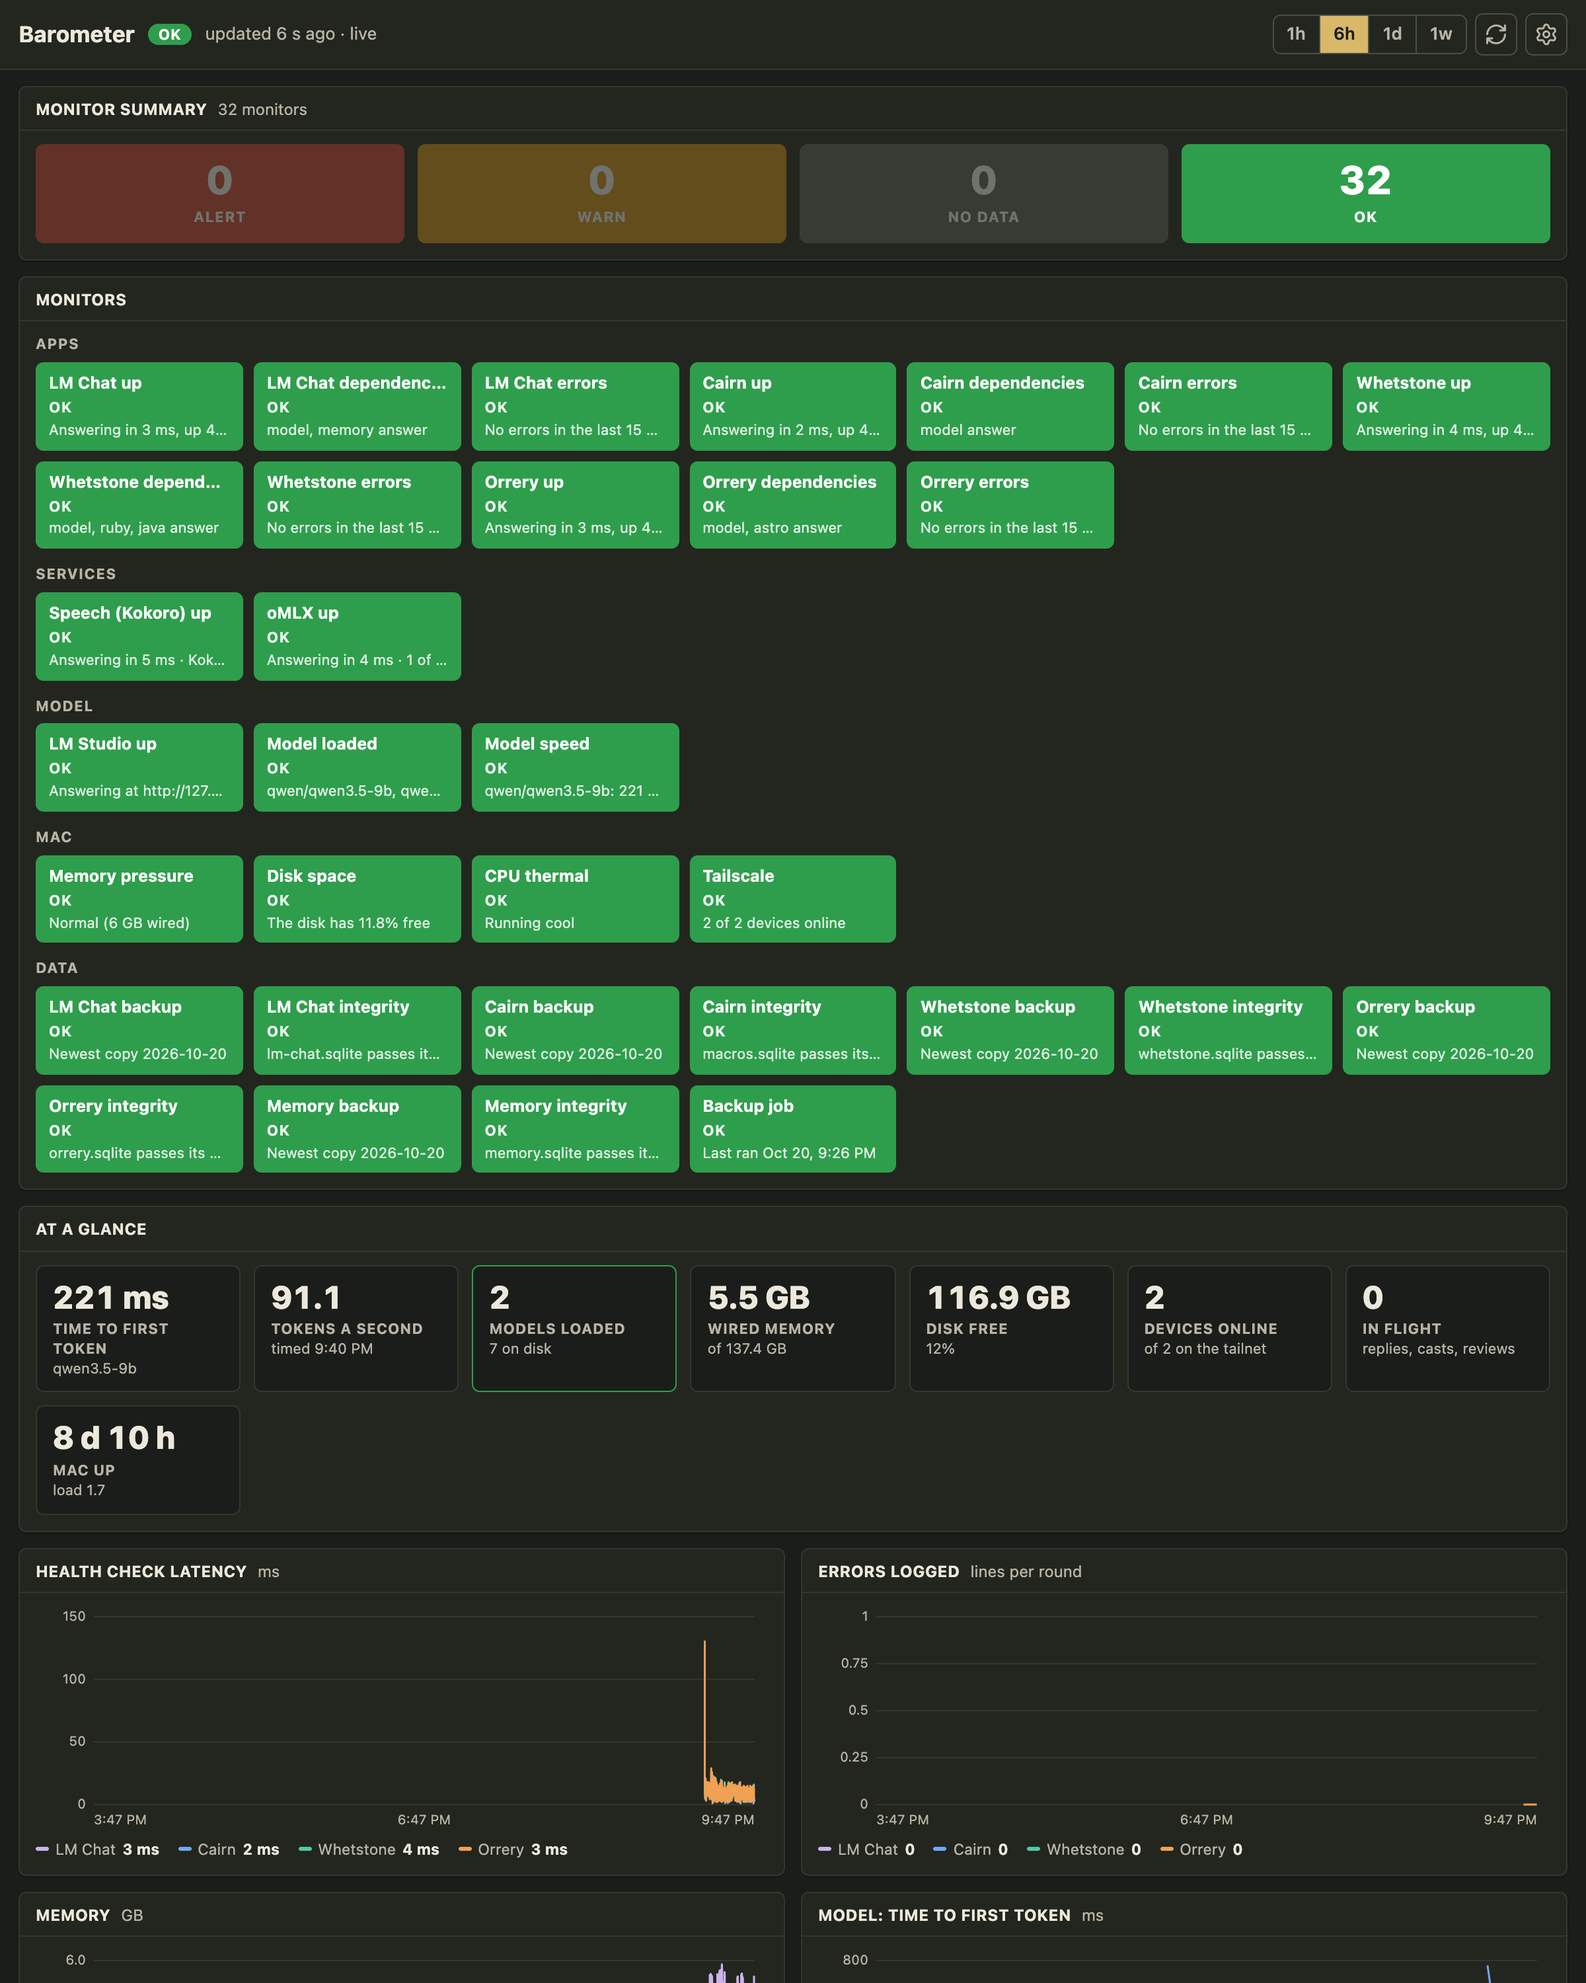
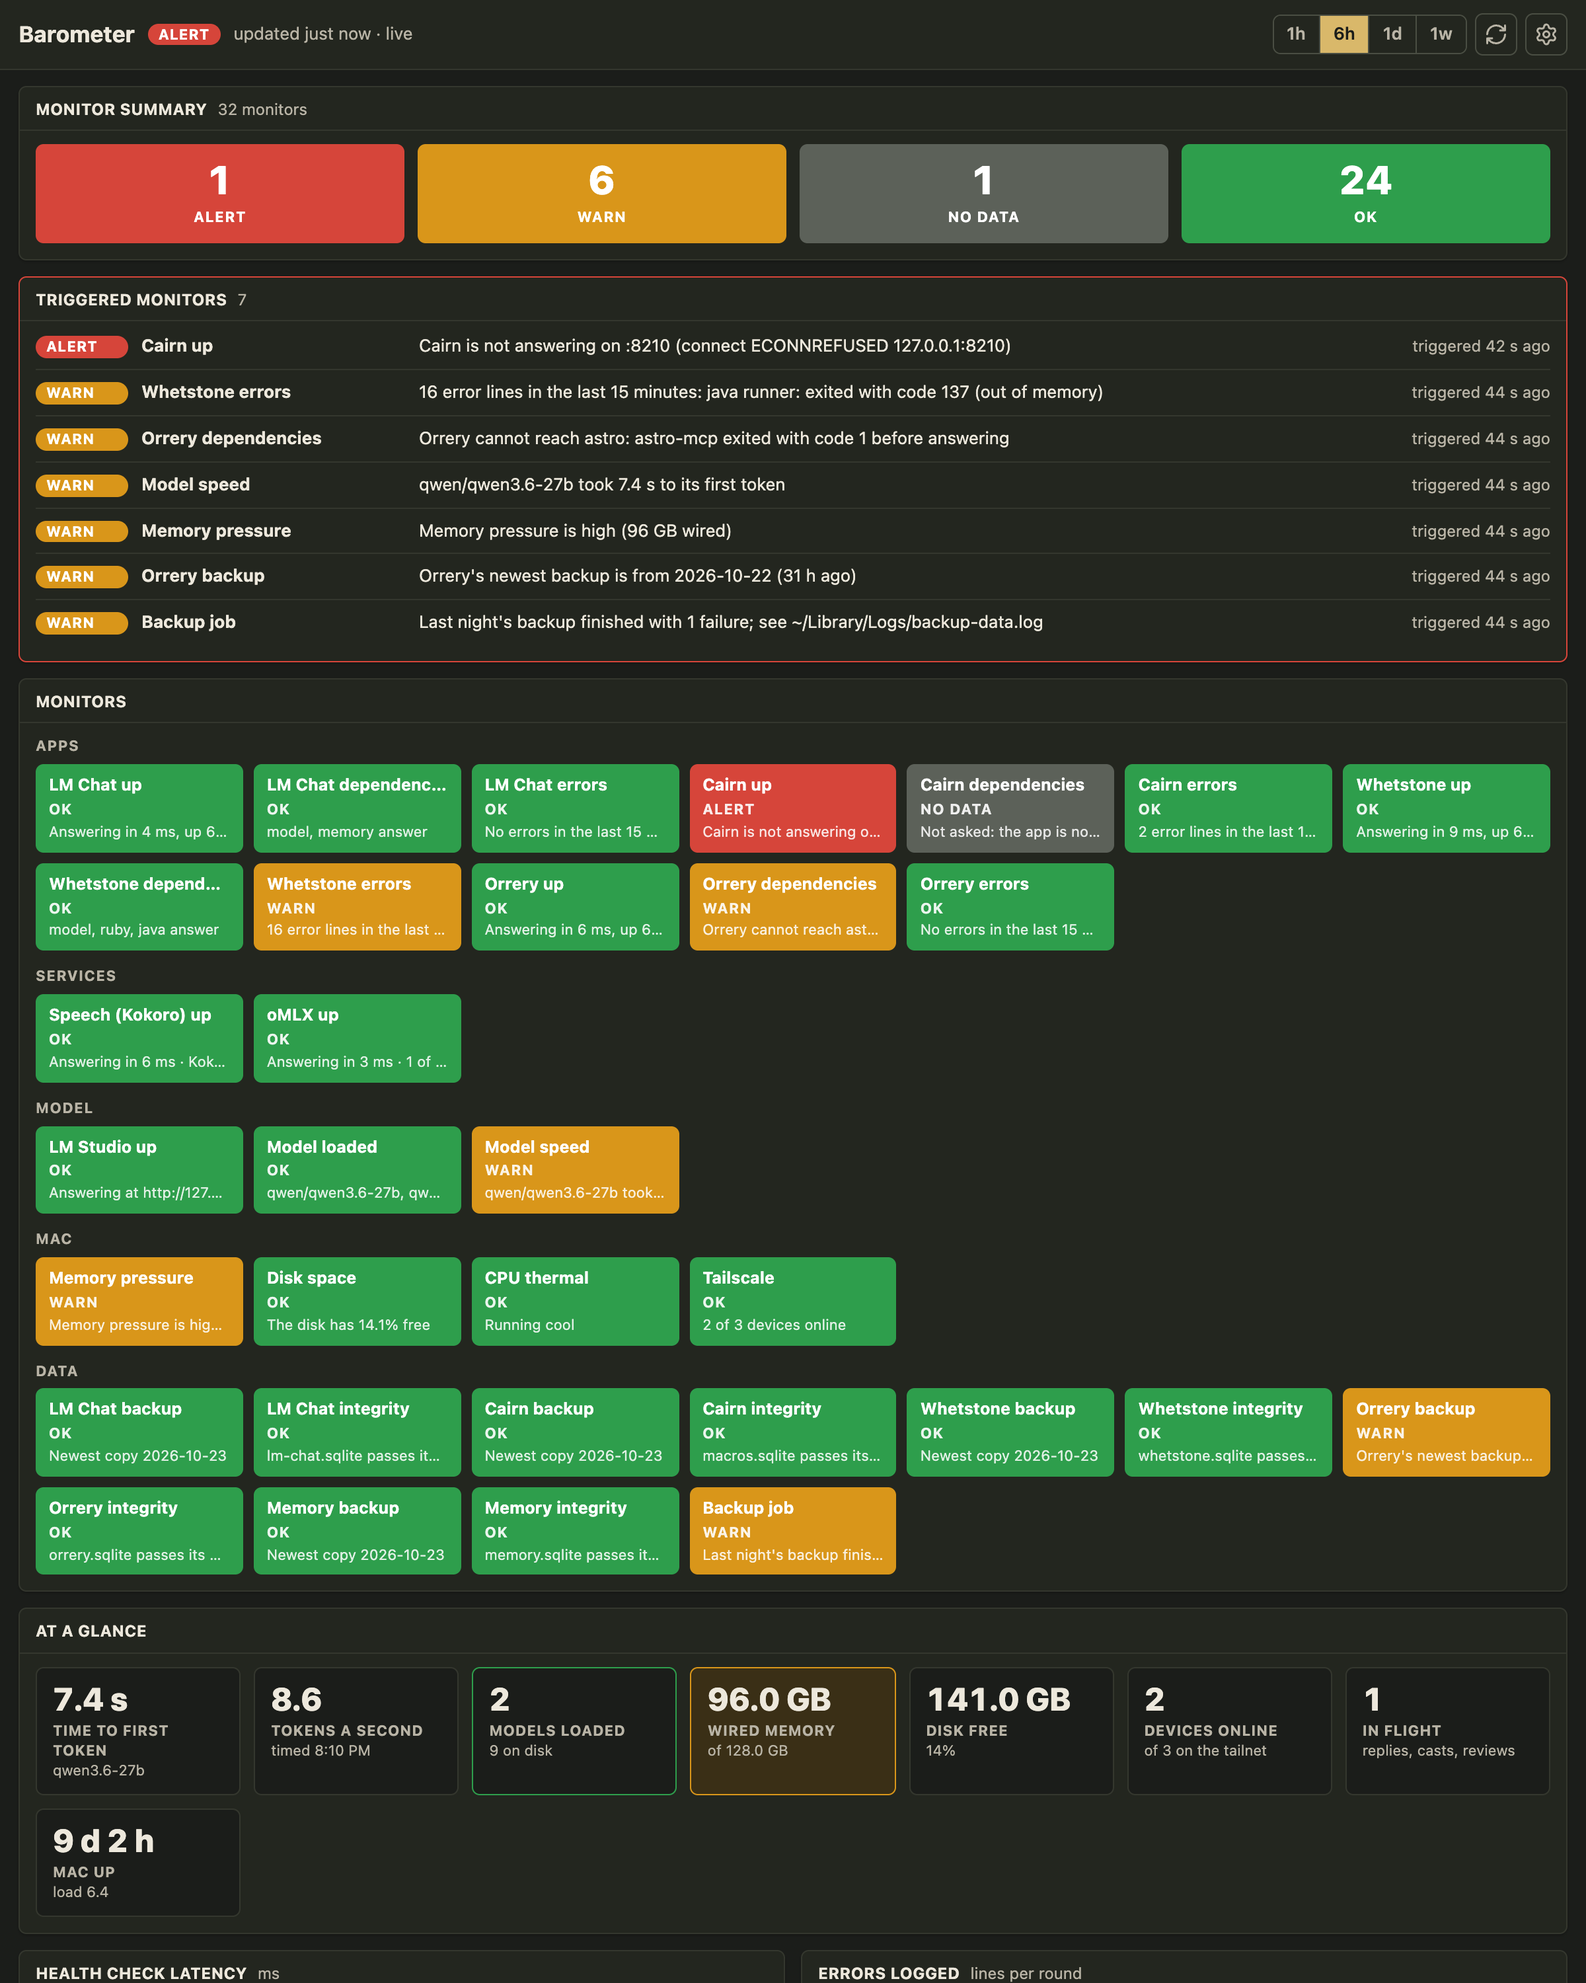
docs: a demo mode with incidents, for screenshots that show alerts

diff --git a/server/demo.ts b/server/demo.ts
@@ -1,0 +1,117 @@
+import type { ErrorLine, ModelProbe } from '../src/types.ts'
+import type { Probes } from './collector.ts'
+import { app, data, host, model, service } from './fixtures.ts'
+import type { Store } from './store.ts'
+import { APPS, DATA } from './targets.ts'
+
+/**
+ * A bad afternoon, for the README's screenshots: nothing here reads the
+ * machine. `npm run dev:demo` runs the board on these probes and a database
+ * seeded with six hours of history, so the monitors, the alerts and the
+ * graphs all have something to say. Every name and number is made up.
+ */
+
+const DNS = 'studio.ts.net'
+const MINUTE = 60_000
+/** The scene's own model, timed slow. */
+export const DEMO_PROBE = (now: number): ModelProbe => ({ at: new Date(now - 4 * MINUTE).toISOString(), model: 'qwen/qwen3.6-27b', ttftMs: 7400, tokensPerSecond: 8.6, tokens: 64 })
+
+/** Whetstone's log: a runner that keeps timing out. */
+const whetstoneErrors = (now: number): ErrorLine[] => [14, 12, 11, 9, 8, 6, 5, 3, 1].map((ago, i) => ({
+  ts: new Date(now - ago * MINUTE).toISOString(),
+  text: i % 3 === 2 ? 'java runner: exited with code 137 (out of memory)' : 'ruby runner: timed out after 10 s on case 3',
+}))
+
+export function demoProbes(now: () => number = Date.now): Probes {
+  const seen = new Set<string>()
+  return {
+    app: async (target) => {
+      const url = `https://${DNS}${target.tailnetPort === 443 ? '' : `:${target.tailnetPort}`}`
+      const base = app(target.id, { name: target.name, url, port: target.port, latencyMs: { 'lm-chat': 4, whetstone: 9, orrery: 6 }[target.id] ?? 5 })
+      const health = { ...base.health!, app: target.id, uptimeSeconds: 6 * 86_400 + 4 * 3600, startedAt: new Date(now() - (6 * 86_400 + 4 * 3600) * 1000).toISOString() }
+      if (target.id === 'cairn') return { ...base, state: 'down', latencyMs: null, health: null, busyTotal: 0, error: 'connect ECONNREFUSED 127.0.0.1:8210', launchd: { pid: null, runs: 7, lastExit: 1, state: 'not running' } }
+      if (target.id === 'orrery') return { ...base, health: { ...health, deps: { model: 'ok', astro: 'down' }, errors: ['astro: astro-mcp exited with code 1 before answering'] } }
+      if (target.id === 'lm-chat') return { ...base, busyTotal: 1, health: { ...health, deps: { model: 'ok', memory: 'ok' }, busy: { replies: 1 } } }
+      if (target.id === 'whetstone') return { ...base, health: { ...health, deps: { model: 'ok', ruby: 'ok', java: 'ok' } } }
+      return { ...base, health }
+    },
+    service: async (target) => service(target.id, { name: target.name, latencyMs: target.kind === 'speech' ? 6 : 3, detail: target.kind === 'speech' ? 'Kokoro 82M' : '1 of 4 models loaded' }),
+    host: async () => host({
+      pressure: 'warning', memoryBytes: 128e9, wiredBytes: 96e9, freeBytes: 1.6e9, diskFreeBytes: 141e9, diskTotalBytes: 1000e9, load: [6.4, 5.1, 3.8], uptimeSeconds: 9 * 86_400 + 2 * 3600,
+      tailscale: { state: 'ok', backend: 'Running', online: true, hostName: 'Studio', dnsName: DNS, peers: 3, peersOnline: 2 },
+    }),
+    model: async (_settings, probe) => model({ loaded: [{ id: 'qwen/qwen3.6-27b', contextLength: 65536 }, { id: 'qwen/qwen3.5-9b', contextLength: 32768 }], available: 9, probe }),
+    probeModel: async () => DEMO_PROBE(now()),
+    data: () => {
+      const day = (hoursAgo: number) => new Date(now() - hoursAgo * 3600_000).toISOString().slice(0, 10)
+      return data({
+        files: DATA.map((t) => ({
+          id: t.id, name: t.name, file: t.file.split('/').pop()!, bytes: 4e6, lastWrite: new Date(now() - 20 * MINUTE).toISOString(), counts: {}, check: 'ok' as const, error: null,
+          backup: t.id === 'orrery' ? { newest: day(31), ageHours: 31, state: 'warn' as const } : { newest: day(7), ageHours: 7, state: 'ok' as const },
+        })),
+        backupLog: { lastRun: new Date(now() - 7 * 3600_000).toISOString(), failures: 1, state: 'warn' },
+      })
+    },
+    watchLog: (offset) => ({ lines: [], offset }),
+    // Each app's log, read once: Whetstone's errors arrive on the first look, as if from the last quarter hour.
+    appErrors: (file, offset) => {
+      const id = APPS.find((a) => a.log === file)?.id ?? file
+      if (id !== 'whetstone' || seen.has(id)) return { lines: [], offset }
+      seen.add(id)
+      return { lines: whetstoneErrors(now()), offset: offset + 1 }
+    },
+  }
+}
+
+/** Six hours of samples, events and closed alerts behind the scene, so the graphs and the feed show how it came to this. */
+export function seedDemo(store: Store, now = Date.now()): void {
+  const from = now - 6 * 3600_000
+  const wave = (t: number, period: number) => Math.sin((t / period) * Math.PI * 2)
+  for (let t = from; t <= now - MINUTE; t += MINUTE) {
+    const left = (now - t) / MINUTE
+    for (const a of APPS) {
+      const base = { 'lm-chat': 4, cairn: 5, whetstone: 9, orrery: 6 }[a.id] ?? 5
+      // Cairn slows for twenty minutes, then stops answering for the last twelve.
+      const cairnDown = a.id === 'cairn' && left <= 12
+      const cairnSlow = a.id === 'cairn' && left <= 32 && left > 12
+      store.sample(a.id, 'up', cairnDown ? 0 : 1, t)
+      if (!cairnDown) store.sample(a.id, 'latency', Math.round(base + Math.abs(wave(t, 47 * MINUTE)) * 3 + (cairnSlow ? 120 + (32 - left) * 22 : 0) + (a.id === 'orrery' && left > 150 && left < 158 ? 85 : 0)), t)
+      store.sample(a.id, 'busy', a.id === 'lm-chat' && Math.floor(left / 9) % 4 === 0 ? 1 : 0, t)
+      // Errors: a burst from Orrery two hours ago, and Whetstone's runners failing now.
+      const errors = a.id === 'whetstone' ? (left <= 15 ? (left % 2 < 1 ? 1 : 0) : left > 200 && left < 206 ? 2 : 0) : a.id === 'orrery' && left > 120 && left < 131 ? (left % 3 < 1 ? 3 : 1) : a.id === 'cairn' && left <= 32 && left > 12 ? 1 : 0
+      store.sample(a.id, 'errors', errors, t)
+    }
+    for (const s of ['speech', 'omlx']) { store.sample(s, 'up', 1, t); store.sample(s, 'latency', s === 'speech' ? 6 : 3, t) }
+    // Memory fills as the 27B loads beside the 9B, ninety minutes ago, and stays up.
+    const loaded = left < 90
+    store.sample('host', 'wired', (loaded ? 92e9 + Math.abs(wave(t, 20 * MINUTE)) * 5e9 : 61e9 + Math.abs(wave(t, 33 * MINUTE)) * 3e9), t)
+    store.sample('host', 'free', (loaded ? 1.5e9 + Math.abs(wave(t, 13 * MINUTE)) * 1e9 : 9e9 + Math.abs(wave(t, 29 * MINUTE)) * 2e9), t)
+    store.sample('host', 'pressure', loaded ? (left < 40 ? 2 : 1) : 1, t)
+    store.sample('host', 'load', 1.6 + Math.abs(wave(t, 40 * MINUTE)) * 1.5 + (loaded ? 2.8 : 0), t)
+    store.sample('host', 'diskFree', 141e9 + (left / 360) * 3e9, t)
+    store.sample('host', 'tailscalePeers', 2, t)
+    store.sample('model', 'loaded', loaded ? 2 : 1, t)
+    store.sample('model', 'up', 1, t)
+    // The model is timed every ten minutes, and slows once memory is tight.
+    if (Math.round(left) % 10 === 0) {
+      store.sample('model', 'ttft', loaded ? 2600 + (90 - left) * 55 + Math.abs(wave(t, 25 * MINUTE)) * 400 : 380 + Math.abs(wave(t, 31 * MINUTE)) * 160, t)
+      store.sample('model', 'tps', loaded ? 14 - (90 - left) * 0.06 : 41 + wave(t, 37 * MINUTE) * 3, t)
+    }
+  }
+  const at = (minutesAgo: number) => now - minutesAgo * MINUTE
+  const closed = (rule: string, target: string, severity: 'warn' | 'critical', text: string, opened: number, resolved: number) => {
+    store.openAlert(rule, target, severity, text, at(opened))
+    store.addEvent('alert', target, text, severity, at(opened))
+    store.closeAlert(rule, target, at(resolved))
+    store.addEvent('resolved', target, `Resolved: ${text}`, 'info', at(resolved))
+  }
+  store.addEvent('deploy', 'whetstone', 'Whetstone deployed 4c1e9a2', 'info', at(310))
+  closed('whetstone-errors', 'whetstone', 'warn', '6 error lines in the last 15 minutes: ruby runner: timed out after 10 s on case 3', 205, 190)
+  store.addEvent('deploy', 'orrery', 'Orrery deployed 8b07d51', 'info', at(160))
+  closed('orrery-errors', 'orrery', 'warn', '11 error lines in the last 15 minutes: astro: astro-mcp exited with code 1 before answering', 128, 112)
+  store.addEvent('note', 'model', 'qwen/qwen3.6-27b loaded beside qwen/qwen3.5-9b', 'info', at(90))
+  store.addEvent('restart', 'cairn', 'Cairn restarted (exited with code 1)', 'warn', at(30))
+  store.addEvent('restart', 'cairn', 'Cairn restarted (exited with code 1)', 'warn', at(19))
+  store.addEvent('down', 'cairn', 'Cairn stopped: exited with code 1', 'critical', at(12))
+  store.setState('model-probe', JSON.stringify(DEMO_PROBE(now)))
+}

diff --git a/vite.config.ts b/vite.config.ts
@@ -2,6 +2,7 @@ import path from 'node:path'
 import react from '@vitejs/plugin-react'
 import { defineConfig } from 'vite'
 import api from './server/api.ts'
+import { demoProbes } from './server/demo.ts'
 
 // Any name on the tailnet, not one machine's: `tailscale serve` is what
 // actually limits who can reach this, so a rename shouldn't break it.
@@ -12,17 +13,22 @@ export default defineConfig(({ command, isPreview }) => {
   // remote): it keeps the samples and sends the alerts. `vite dev` watches
   // the same services but keeps its own scratch database and never probes
   // the model or notifies, so trying something out disturbs nothing.
-  const real = command === 'build' || isPreview
-  const dir = real ? undefined : path.resolve(process.cwd(), '.data-dev')
+  //
+  // BAROMETER_DEMO=1 (`npm run dev:demo`) swaps the probes for a made-up bad
+  // afternoon (server/demo.ts) on a database `npm run seed:demo` fills, for
+  // the README's screenshots.
+  const demo = !!process.env.BAROMETER_DEMO
+  const real = !demo && (command === 'build' || isPreview)
+  const dir = real ? undefined : path.resolve(process.cwd(), demo ? '.data-demo' : '.data-dev')
 
   return {
-    plugins: [react(), api({ dir, quiet: !real })],
+    plugins: [react(), api({ dir, quiet: !real, ...(demo ? { collector: { probes: demoProbes(), intervalMs: 2000, modelProbe: false } } : {}) })],
     server: {
       host: true,
       port: 8500,
       strictPort: true,
       allowedHosts: [TAILNET],
-      watch: { ignored: ['**/coverage/**', '**/.data/**', '**/.data-dev/**'] },
+      watch: { ignored: ['**/coverage/**', '**/.data/**', '**/.data-dev/**', '**/.data-demo/**'] },
     },
     // A separate port from `server` above: the persistent, built instance
     // Tailscale points at, so it can run alongside `npm run dev`.

diff --git a/scripts/seed-demo.ts b/scripts/seed-demo.ts
@@ -1,0 +1,16 @@
+import fs from 'node:fs'
+import path from 'node:path'
+import { seedDemo } from '../server/demo.ts'
+import { Store } from '../server/store.ts'
+
+/**
+ * Fills .data-demo with six hours of a made-up bad afternoon (server/demo.ts)
+ * for `npm run dev:demo`, which the README's screenshots are taken from. It
+ * starts from an empty database every time and reads nothing real.
+ */
+const dir = path.resolve(process.cwd(), '.data-demo')
+fs.rmSync(dir, { recursive: true, force: true })
+const store = new Store(dir)
+seedDemo(store)
+store.close()
+console.log(`seeded ${dir}`)

diff --git a/README.md b/README.md
@@ -1,10 +1,14 @@
 # <img src="public/icon-180.png" width="32" alt=""> Barometer
 
-A dashboard for what is running on the Mac: the four apps and the services
-beside them, the model server and how fast it answers, the machine itself,
-the databases and their backups. Every fifteen seconds it looks at all of
-it, judges thirty-odd monitors, keeps the numbers for the graphs, and says
-so, on the Mac and on the phone, when a monitor leaves OK.
+A monitoring board for apps you run on your own Mac with local models and
+reach from your phone over Tailscale. It watches each app and the services
+beside it, the model server and how fast it answers, the machine itself,
+and the databases and their backups. Every fifteen seconds it looks at all
+of it, judges a monitor for each, keeps the numbers for the graphs, and
+says so, on the Mac and on the phone, when a monitor leaves OK.
+
+The screenshots come from its demo mode: a made-up bad afternoon with one
+app down, another logging errors, a slow model and memory under pressure.
 
 <img src="docs/screenshots/board-desktop.png" alt="The dashboard on a wide window: the monitor summary, the triggered monitors, every monitor as a tile, the numbers and the graphs" />
 
@@ -19,19 +23,34 @@ so, on the Mac and on the phone, when a monitor leaves OK.
   </tr>
 </table>
 
-Below the graphs: the numbers at a glance, a table of the services (commit
+Below the graphs: the numbers at a glance, a table of the apps (commit
 deployed, uptime, what is in flight, dependencies, launchd start count,
 errors in the last quarter hour), a table of the databases, the event stream
 and the latest error lines from the apps' own logs.
+
+## Your apps
+
+What it watches is listed in `server/targets.ts`, since it is fixed by how
+the Mac is set up rather than chosen on the page:
+
+- **Apps**, each with its local port, its launchd label and log, and the
+  port `tailscale serve` gives it on the tailnet. Each app answers
+  `GET /api/health` in one shape; `server/health.ts` is a drop-in that
+  produces it.
+- **Services** beside them, such as a speech server or a second model
+  server: anything that answers a URL.
+- **Data**: each app's SQLite file, and where its dated backups land.
+
+The model server is LM Studio, timed with a short completion now and then.
 
 ## The monitors
 
 | Group | Monitor | Alert when |
 | --- | --- | --- |
 | Apps | *App* up | Its `GET /api/health` does not answer, two rounds running. |
-| | *App* dependencies | The health route says a dependency (the model server, astro-mcp, the memory file) is down. |
+| | *App* dependencies | The health route says a dependency (the model server, an MCP server, a data file) is down. |
 | | *App* errors | Its launchd log gained more error lines in fifteen minutes than Settings allows. |
-| Services | Speech, oMLX up | No answer, two rounds running. |
+| Services | *Service* up | No answer, two rounds running. |
 | Model | LM Studio up, Model loaded, Model speed | LM Studio does not answer; no model (or not the one Settings expects) is loaded; the timed completion is slower than the thresholds. |
 | Mac | Memory pressure, Disk space, CPU thermal, Tailscale | macOS reports pressure; the disk is nearly full; the CPU is throttled; Tailscale is stopped or the Mac is offline on the tailnet. |
 | Data | *Database* backup, *Database* integrity, Backup job | The newest dated copy in `~/Backups` is older than a day; SQLite's quick check fails; last night's backup job logged failures. |
@@ -52,10 +71,14 @@ Node 24 or newer. `npm install`, then:
 
 - `npm run dev` on :8500, against a scratch database in `.data-dev`; it
   watches the same services but never times the model or notifies anyone.
-- `npm run preview` on :8510 is the real instance, kept up by launchd
-  (`com.amie.barometer`) and served on the tailnet by `tailscale serve`.
+- `npm run preview` on :8510 is the real instance, kept up by a launchd
+  agent and served on the tailnet by `tailscale serve`.
 - `npm run deploy` rebuilds and restarts that instance.
-- `npm run screenshots` takes the pictures above from the running instance.
+- `npm run seed:demo`, then `npm run dev:demo`, runs the demo on :8500:
+  six hours of made-up history and probes that read nothing real
+  (`server/demo.ts`).
+- `BAROMETER_URL=http://127.0.0.1:8500 npm run screenshots` takes the
+  pictures above from it.
 
 Settings on the page hold the LM Studio URL and token, how often to time the
 model, the thresholds, and whether to notify the Mac. Push to a phone needs
